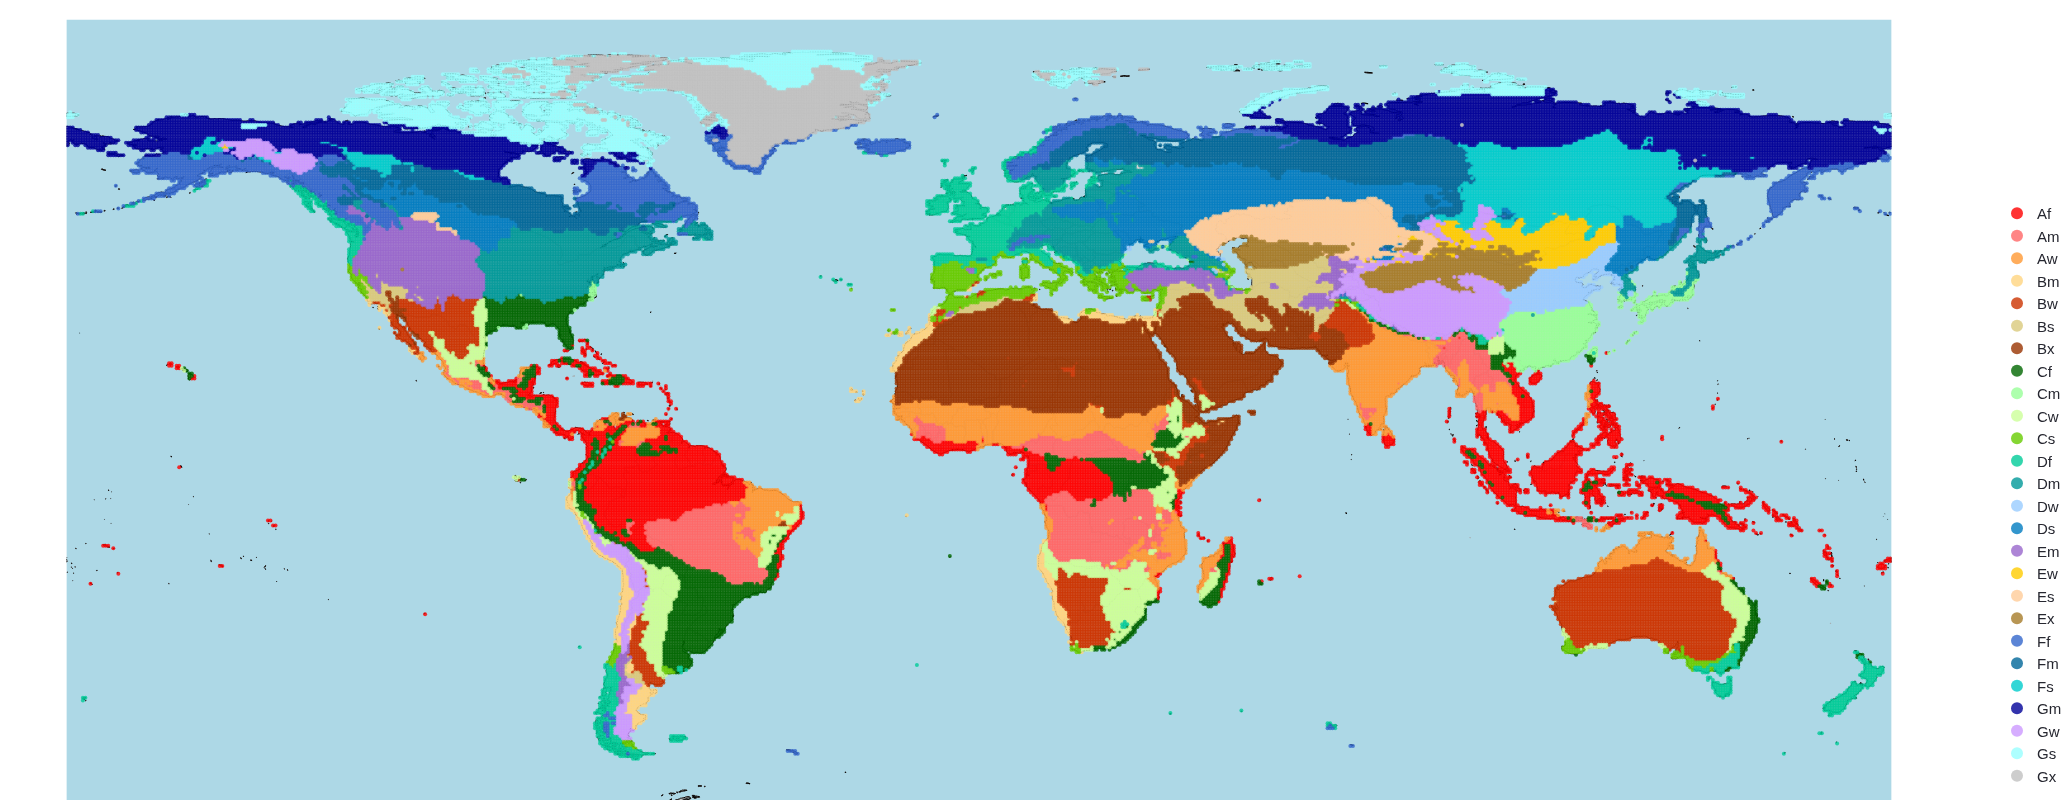
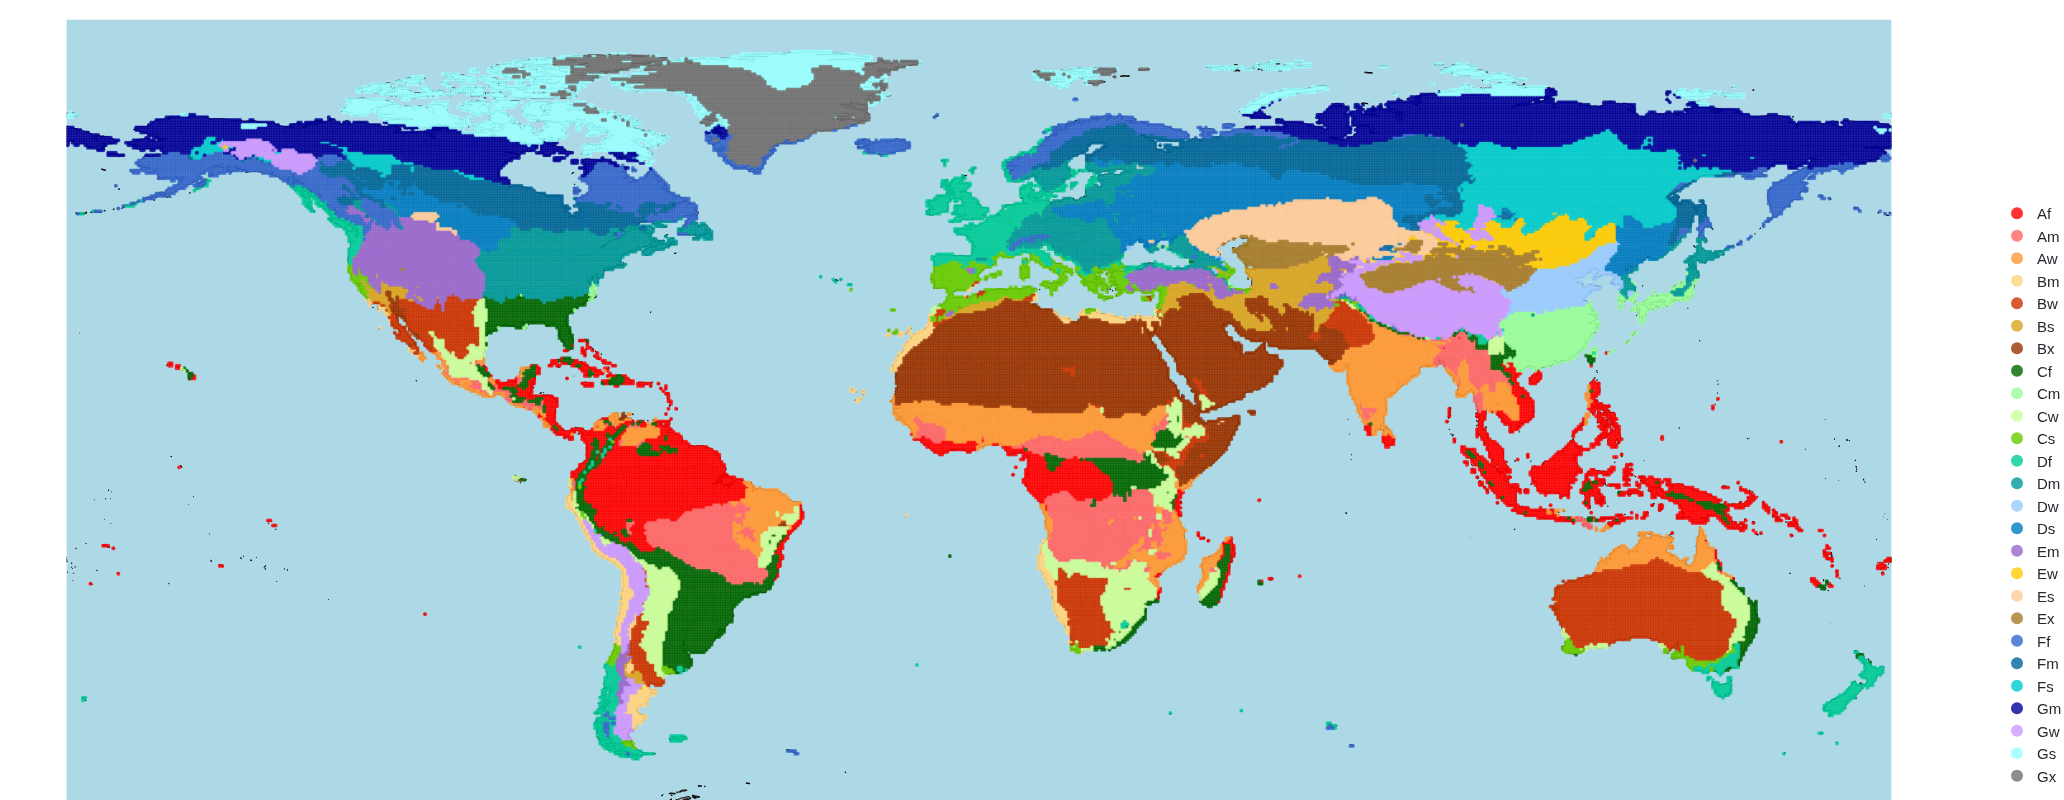
feat: optimize color scheme

diff --git a/climate_classification.py b/climate_classification.py
@@ -365,7 +365,7 @@ class DLClassification:
         # B组 - 干燥气候
         "Bm": "#FFD580",  # 浅橙色，温和沙漠
         "Bw": "#CC3300",  # 亮橙色，季节性半干旱（更亮）
-        "Bs": "#D9C97C",  # 灰黄色，干旱温带（与Bm/Bx/Ex区分）
+        "Bs": "#DAA520",  # 灰黄色，干旱温带（与Bm/Bx/Ex区分）
         "Bx": "#993300",  # 深棕色，极端沙漠
         
         # C组 - 亚热带湿润气候
@@ -395,7 +395,7 @@ class DLClassification:
         "Gm": "#000099",  # 深蓝色，亚极地-极地过渡
         "Gw": "#CC99FF",  # 浅紫色，高山苔原
         "Gs": "#99FFFF",  # 浅青色，凉爽夏季极地
-        "Gx": "#C0C0C0"   # 灰色，寒冷夏季极地
+        "Gx": "#707070"   # 灰色，寒冷夏季极地
     }
 
     # bulk operation
